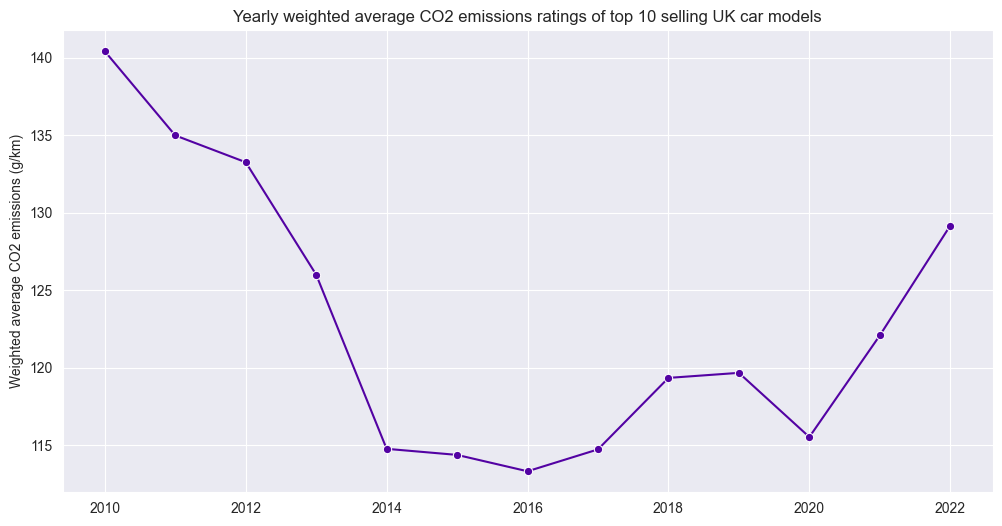
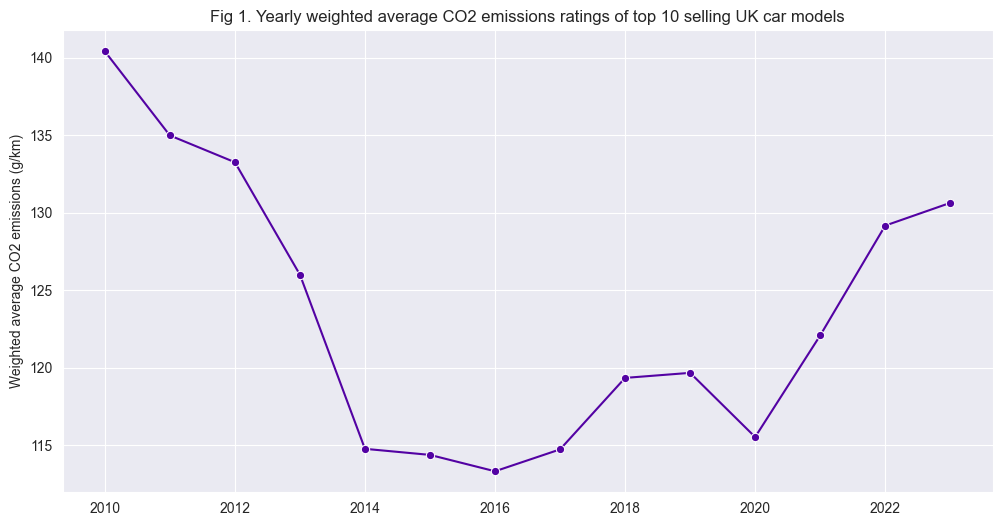
KAN-10 Abstract and gist added

diff --git a/content/posts/suvs_emissions.md b/content/posts/suvs_emissions.md
@@ -4,19 +4,33 @@ date: 2023-09-20T10:38:43+01:00
 draft: false
 ---
 
+### Abstract
+
+There is a lot of comment about SUVs being one of the global drivers of CO2 output and their increased emissions cancelling out gains in automotive energy efficiency. This study looks at their effect on the UK car fleet emissions by analysing the top ten selling models over 14 years.
+
+Changes in the weighted average emissions of the top 10 cars is plotted in aggregate and individually by SUV and non-SUV categories, followed by a plot of the weighted average mass. 
+
+CO2 emissions per kilogram for each category are then analysed to look at the effect of increased aerodynamic drag and rolling resistance of SUVs.
+
+Finally sales figures show the changes  in the relative market share of the two categories.
+
+The study shows that SUVs have substantially increased emissions of the most popular cars sold in recent years. Furthermore that it is possible emissions of non-SUVs are higher than they might otherwise be due to design changes in that category.
+
+{{< gist stepons 32b9422e88c52ba2d17adbc6dc9fc763 >}}
+
 SUVs came into existence via an emissions break granted to US pick-up trucks during the 1970s so that, as working vehicles, they could do their job without being hampered by efficiency standards introduced during the energy crisis. Car makers subsequently realised that the new ‘light truck’ category could be used as the basis for passenger cars that had more relaxed emissions standards and the SUV was born, with the first Jeep Cherokee launched in 1984.
 
 I’ve seen references to the increased emissions caused by SUVs generally but not any details or charts for the UK so I have produced my own from lists of top 10 selling car models by year(1) and published vehicle stats. The effect on overall emissions is clearly dependent on the numbers of each model sold so I’ve used weighted averages to take this into account.
 
-![Yearly average CO2 emissions ratings of top 10 selling UK car models lineplot](/img/suv_fig1.png)
+![Yearly weighted average CO2 emissions ratings of top 10 selling UK car models lineplot](/img/suv_fig1.png)
 
-Emissions started rising from 2018 onwards. Is this down to SUVs? Let’s look at the two categories(2) of cars plotted separately. 
+Emissions started rising from 2017 onwards. Is this down to SUVs? Let’s look at the two categories(2) of cars plotted separately. 
 
 ![Yearly weighted average CO2 emissions ratings of top 10 selling UK car models by category lineplot](/img/suv_fig2.png)
 
 Non-SUVs do show a steady decrease in emissions through to 2015, which is the continuation of a longstanding trend from engineering progress. For example the Vauxhall Astra’s emissions dropped by from 171g/km in 1998 to 102 in 2015, a 40% reduction. 
 
-Prior to 2014 the only SUV to make it into the top 10 was the Nissan Qashqai, hence the horizontal line. It was revamped in 2014 and joined by the Nissan Juke, which brought down emissions. But SUV emissions stay much higher than non-SUV emissions throughout.
+Prior to 2014 the only SUV to make it into the top 10 was the Nissan Qashqai, hence the horizontal line. It was revamped in 2014 and joined by the Nissan Juke, which brought down emissions. But SUV emissions stay much higher than non-SUV emissions throughout, tracking in a band between approximately 18 and 30 percent higher than non-SUVs.
 
 So is it all about the extra weight of SUVs?
 
@@ -28,23 +42,22 @@ The other major factor affecting emissions is drag, both aerodynamic and the rol
 
 ![Yearly CO2 emissions per kilogram of top 10 selling UK car models by category lineplot](/img/suv_fig4.png)
 
-Unsurprisingly bigger SUVs produce more emissions for a given weight of car. It’s interesting to see that non-SUVs’ emissions per kilogram have also increased in recent years even though both average weight and emissions of cars in this category have decreased. Anecdotally it seems that non-SUV cars have got larger and also appear to have adopted a flatter, taller nose – possibly SUV-influenced design choices.
+Unsurprisingly bigger SUVs produce more emissions for a given weight of car. It’s interesting to see that non-SUVs’ emissions per kilogram have also increased since 2017 even though both average weight and emissions of cars in this category have decreased. Anecdotally it seems that non-SUV cars have got longer and wider and also appear to have adopted a flatter, taller nose – possibly SUV-influenced design choices. Without this size inflation it is likely that non-SUVs' emissions would be appreciably lower than they are now, particularly because there has been a circa 10 percent reduction in the weight of cars in this category in the last 6 years.
 
 So where does this leave us? Let’s look at sales numbers.
 
 ![Yearly UK sales of top 10 car models by category barchart](/img/suv_fig5.png)
 ![Number of SUV and non-SUV models in top 10 each year barchart](/img/suv_fig6.png)
 
-Both the number of SUV models included in the top 10 and the number of SUV cars sold passed the non-SUV figures for the first time in 2022, so SUVs are undoubtedly on the rise. Leaving aside pros and cons for the cars’ occupants and other road users, from a resource point of view they increase consumption, using more materials to manufacture and more energy to drive. 
+Both the number of SUV models included in the top 10 and the number of SUV cars sold passed the non-SUV figures for the first time in 2022, so sales of SUVs are undoubtedly on the rise. Top 10 car sales make up appproximately 30 percent of total sales in the UK. Looking back at the first chart of combied emissions of all top ten cars, the most marked increases have also been in the last two years. 
 
-And importantly this will make a difference as the national fleet of cars is electrified. Larger quantities of mineral ores will be needed for batteries and more electricity will be required to charge them, which also increases pressure on the transmission grid. 
-Does anyone benefit? With SUVs generally significantly more expensive – in 2020 the average retail price of an SUV in Europe was 59% higher than that of a hatchback – car manufacturers do get better profit margins from them despite a decrease in overall sales volumes(3). 
+Leaving aside pros and cons for the cars’ occupants and other road users, from a resource point of view SUVs increase consumption throughout their life-cycle, using more materials to manufacture and more energy to drive. And importantly this will make a difference as the national fleet of cars is electrified. Larger quantities of mineral ores will be needed for batteries and more electricity will be required to charge them, which also increases pressure on the transmission grid. 
 
-Consumers clearly like SUVs – but for the average buyer, how much of that preference is because of the manifest benefits of SUV ownership and how much is down to marketing, the influence of TV and film, or following the trend?
+Does anyone benefit? With SUVs generally significantly more expensive – in 2020 the average retail price of an SUV in Europe was 59% higher than that of a hatchback – car manufacturers do get better profit margins from them despite a decrease in overall sales volumes(3). Consumers clearly like SUVs – but for the average buyer, how much of that preference is because of the manifest benefits of SUV ownership and how much is down to marketing, the influence of TV and film, or following the trend?
 
 
 *Notes*
-1. *Tesla entered the top 10 with the Model 3 in 2021 and Model Y in 2022. Weight and emissions of electric cars are not directly comparable with petrol powered models so I have left out these cars from the annual figures, meaning that these years show averages for nine cars, not 10*
-2. *The non-SUV category is mostly hatchbacks but includes saloons. The SUV category is made up of crossovers and various-sized SUVs. But the top 10 selling list of cars tends to include the lowest cost models in both categories*
+1. *Tesla entered the top 10 with the Model 3 in 2021 and Model Y in 2022-23. Weight and emissions of electric cars are not directly comparable with petrol powered models so the Teslas are removed from the annual figures, meaning that these years show averages for nine cars, not 10. Furthermore Fig 5a SUV numbers are lower by 34,783, 35,551 and 35,899 in those years. Fig 5b also shows one fewer SUV the same three years*
+2. *The non-SUV category is mostly hatchbacks but includes saloons. The SUV category is made up of crossovers and various-sized SUVs. But the top 10 selling list of cars tends to include the lower cost models in both categories*
 3. *https://www.jato.com/oems-are-selling-more-suvs-but-are-they-selling-more-vehicles/*
 4. *Car sales stats are from best-selling-cars.com and technical stats from parkers.co.uk and autoevolution.com*

diff --git a/content/posts/PV_constituency.md b/content/posts/PV_constituency.md
@@ -6,7 +6,7 @@ draft: false
 
 ### Abstract
 
-The UK has fallen behind other comparable European nations in the amount of solar PV capacity installed, in part due to less generous subsidies. To see if this makes sense in terms of voting preferences of those installing solar panels this study plots solar PV installations on a map of constituencies.
+The UK has fallen behind other comparable European nations in the amount of solar PV capacity installed, in part due to less generous subsidies. To see if this makes sense in terms of voting preferences of those installing solar panels, this study plots solar PV installations on a map of constituencies.
 
 The non-profit Open Climate Fix has amassed precise location information on solar PV in the UK in order to forecast ultra short-term solar energy generation to improve grid efficiency. This is mapped using geopandas with Ordnance Survey constituency data and election data from the House of Commons Library. 
 
